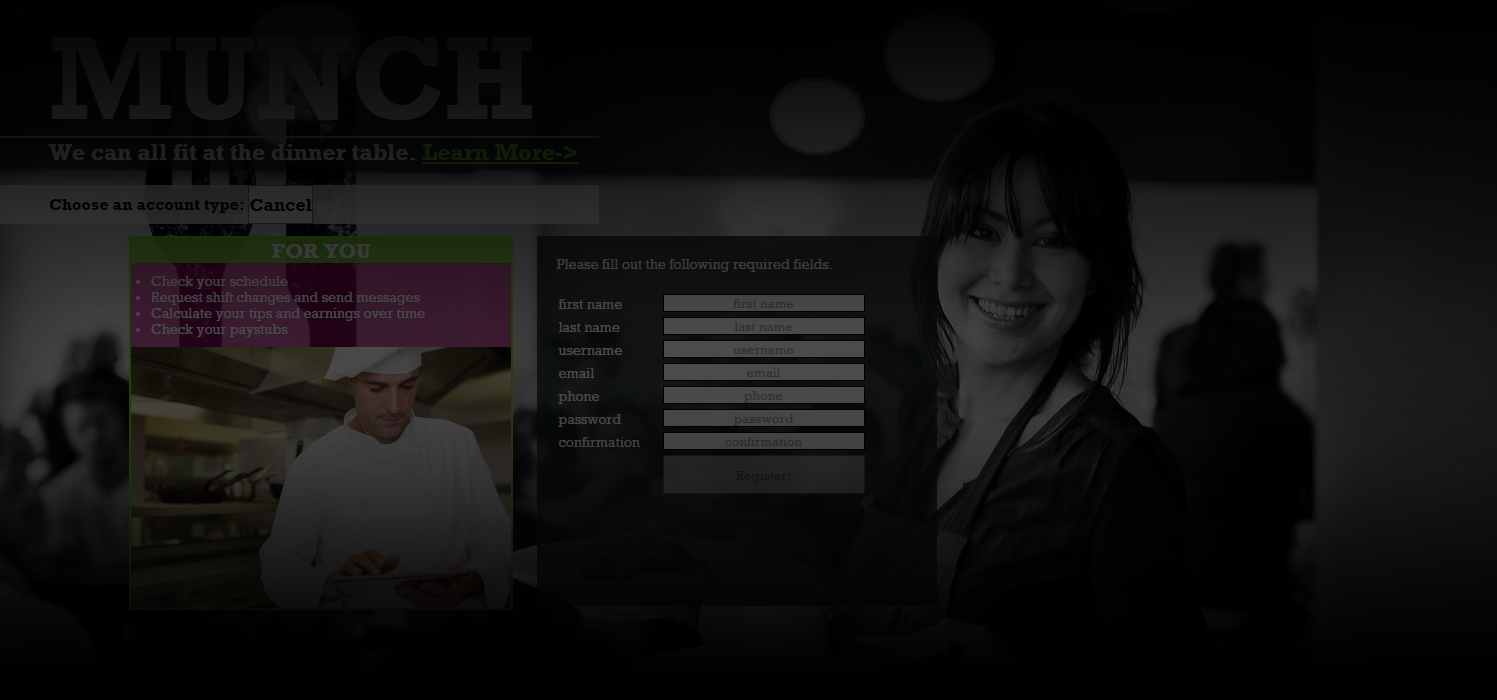
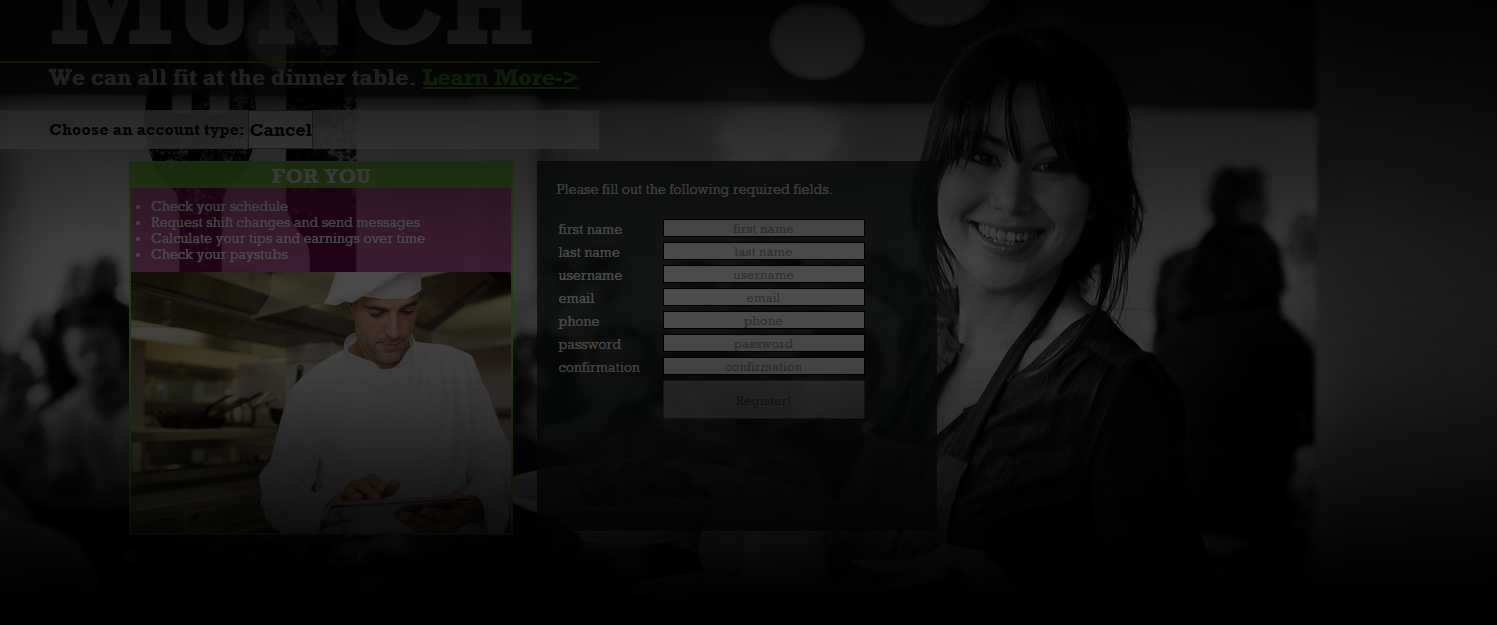
8:52pm 3/11: All functional

diff --git a/css/portfolio_home_style.css b/css/portfolio_home_style.css
@@ -11,6 +11,9 @@ body{
 	background-repeat: no-repeat;
 	background-attachment: fixed;
 }
+a{
+	color: rgb(38,188,244);
+}
 .nestled,#site_links a{
 	display: inline-block;
 	vertical-align: top;
@@ -114,7 +117,7 @@ body{
 		to {left: 0em;}
 	}
 
-.align_center,#rails_frame h3{
+.align_center{
 	text-align: center;
 }
 
@@ -137,9 +140,6 @@ body{
 	}
 	
 /*PROFILE STYLING*/
-	#profile a,#lamp_title_wrapper a,#mean_title_wrapper a,#rails_frame a{
-		color: rgb(38,188,244);
-	}
 	#profile img{
 		float: left;
 		margin: 0em 1em 1em 0em;
@@ -166,12 +166,6 @@ body{
 		margin-left: 8%;
 		margin-bottom: 1em;
 	}
-		#skills h2{
-			font-size: 3em;
-		}
-		#skills li{
-			font-size: 2em;
-		}
 		#skills ul{
 			margin-left: 2em;
 		}
@@ -186,94 +180,66 @@ body{
 		margin: 3% auto;
 	}
 
+/*PROJECT STYLING*/
+	.wrapper{
+		padding: 2em;
+		background-size: 100% auto;
+		/*background-repeat: no-repeat;*/
+	}
+	.title_link{
+		text-decoration: none;
+		color: white;
+	}
+	.lamp h2,.mean h2,.rails h2{
+		font-size: 20vw;
+	}
+	.lamp h3,.mean h3,#rails_frame h3,.centered p:first-child,#skills h2{
+		font-size: 3em;
+	}
+	.lamp h4,.mean h4,.rails h4,#rails_demo p,#skills li{
+		font-size: 2em;
+	}
+	.centered{
+		width: 50%;
+		margin: 4em auto;
+	}
+	.centered p{
+		font-size: 1.5em;
+	}
+	.screenshots img{
+		width: 70%;
+		margin: 0em auto 2em;
+	}
+
 /*LAMP STYLING*/
+	#lamp_title_wrapper{
+		background-image: url('../images/sku_0.png');
+	}
+	#lamp_title_wrapper,#lamp_title_wrapper .title_link{
+		color: black;
+	}
 	#lamp_frame{
 		background-color: rgb(2,10,36);
 	}
-	#lamp_title_wrapper{
-		padding: 2em;
-		background-image: url('../images/sku_0.png');
-		background-size: 100% auto;
-		/*background-repeat: no-repeat;*/
-		color: black;
-	}
-		.lamp h2{
-			font-size: 20vw;
-		}
-		.lamp h3{
-			font-size: 3em;
-		}
-		.lamp h4{
-			font-size: 2em;
-		}
-		.lamp .centered p:not(:first-child){
-			font-size: 1.5em;
-		}
 
 /*MEAN STYLING*/
+	#mean_title_wrapper{
+		background-image: url('../images/munch_0.png');
+	}
 	#mean_frame{
 		background-color: rgb(89,166,61);
-	}
-	#mean_title_wrapper{
-		padding: 2em;
-		background-image: url('../images/munch_0.png');
-		background-size: 100% auto;
-		/*background-repeat: no-repeat;*/
 	}
 	.mean *{
 		font-family: "Rockwell",serif;
 	}
-		.mean h2{
-			font-size: 20vw;
-		}
-		.mean h3{
-			font-size: 3em;
-		}
-		.mean h4{
-			font-size: 2em;
-		}
-		.mean .centered p:not(:first-child){
-			font-size: 1.5em;
-		}
 
 /*RAILS STYLING*/
+	#rails_title_wrapper{
+		background-image: url('../images/make_0.png');
+	}
 	#rails_frame{
 		background-color: rgb(233,87,63);
 	}
-		#rails_frame h2{
-			font-size: 25vw;
-		}
-		#rails_subtitle{
-			width: 50%;
-			margin: 0em auto 4em;
-		}
-			#rails_subtitle img{
-				width: 20%;
-				margin-right: 2em;
-			}
-			#rails_frame h4{
-				font-size: 2vw;
-			}
-		#rails_frame h3{
-			font-size: 5em;
-		}
-		#rails_demo{
-			padding-top: 4em;
-		}
-			#rails_demo img{
-				margin-bottom: 1em;
-			}
-			#rails_demo p{
-				font-size: 2em;
-			}
-		.centered{
-			width: 50%;
-			margin: 4em auto;
-		}
-		.centered p{
-			font-size: 3em;
-		}
-		#rails_screens img{
-			width: 70%;
-			margin: 0em auto 2em;
+		#rails_demo img{
+			margin-bottom: 1em;
 		}

diff --git a/partials/rails.html b/partials/rails.html
@@ -1,15 +1,23 @@
-<div id="rails_frame" class="larger_frame">
-	<h2 class="align_center">MAKE</h2>
-	<div id="rails_subtitle">
-		<img src="images/gem_icon.png" class="nestled">
-		<h4 class="nestled">
-			Ruby Gem<br>
-			& Demonstration Site<br>
-			Used: SQLite, WEBrick, Ruby on Rails<br>
-			Colleague: <a href="https://github.com/sarapple">Sara Wong</a>
-		</h4>
+<div id="rails_title_wrapper" class="rails align_center wrapper">
+	<h2><a class="title_link" href="https://make-gem.herokuapp.com/" target="_blank">MAKE</a></h2>
+	<h4>Ruby Gem & Demonstration Site<br>
+		Colleague: <a href="https://github.com/sarapple" target="_blank">Sara Wong</a><br>
+		Used: SQLite, WEBrick, Ruby on Rails
+	</h4>
+</div>
+<div id="rails_frame" class="larger_frame rails">
+	<div class="centered">
+		<p>MAKE produces tables and forms in Ruby on Rails with just a line of code in your controller, and one in your view.</p>
 	</div>
-	<h3>VISIT THE SITE: <a href="https://make-gem.herokuapp.com/">Demonstration Site</a></h3>
+	<div class="centered align_center">
+		<h3><a href="https://make-gem.herokuapp.com/" target="_blank">TRY THE GEM HERE.</a></h3>
+	</div>
+	<div class="centered">
+		<p>Personal contributions:</p>
+		<p>Splash page and home (extensive jQuery)</p>
+		<p>Clickable tree of gem methods (extensive jQuery and Rails)</p>
+		<p>Automated table creation based on database content (Rails, SQLite)</p>
+	</div>
 	<div id="rails_demo" class="align_center">
 		<h3>RUNDOWN</h3>
 		<p>Why type all this -></p>
@@ -20,13 +28,7 @@
 		<p>When all you need is this? -></p>
 		<img src="images/make_3.png">
 	</div>
-	<div class="centered">
-		
-	</div>
-	<div class="centered">
-		<p>MAKE produces tables and forms in Ruby on Rails with just a line of code in your controller, and one in your view.</p>
-	</div>
-	<div id="rails_screens" class="align_center">
+	<div class="screenshots align_center">
 		<h3>SCREENSHOTS</h3>
 		<img src="images/make_4.png" class="nestled">
 		<img src="images/make_5.png" class="nestled">

diff --git a/partials/mean.html b/partials/mean.html
@@ -1,14 +1,19 @@
-<div id="mean_title_wrapper" class="mean align_center">
-	<h2>MUNCH</h2>
+<div id="mean_title_wrapper" class="mean align_center wrapper">
+	<h2><a class="title_link" href="http://munch.ulysseslin.com/" target="_blank">MUNCH</a></h2>
 	<h4>Restaurant Management App<br>
-		Colleagues: <a href="">Miles Trotter</a>
-		<a href="https://github.com/Chrisjag92">Chris Jaglois</a>
+		Colleagues: <a href="https://github.com/milestrotter" target="_blank">Miles Trotter</a>
+		<a href="https://github.com/Chrisjag92" target="_blank">Chris Jaglois</a>
 	</h4>
 	<h4>Used: Javascript, MongoDB + Mongoose, Express.js + Socket.io, Angular.js, Node.js, Responsive Web Design</h4>
 </div>
 <div id="mean_frame" class="larger_frame mean">
 	<div class="centered">
 		<p>MUNCH unifies all aspects of restaurant management.<br>Edit the menu, message workers, check tips, change pay, pick up shifts, and more.</p>
+	</div>
+	<div class="centered align_center">
+		<h3><a href="http://munch.ulysseslin.com/" target="_blank">TRY THE APP HERE.</a></h3>
+		<p>Admin account: "ders"</p>
+		<p>Admin password: "1"</p>
 	</div>
 	<div class="centered">
 		<p>Personal contributions:</p>
@@ -19,12 +24,12 @@
 		<p>Server-side controller and database management, & account type management (MongoDB + Mongoose)</p>
 		<p>*NOTE: Photos used are not owned by me. This app is not on the market.</p>
 	</div>
-	<div id="rails_screens" class="align_center">
+	<div class="screenshots align_center">
 		<h3>SCREENSHOTS</h3>
-		<img src="images/munch_1.png" class="nestled">
-		<img src="images/munch_2.png" class="nestled">
+		<img src="images/munch_1.jpg" class="nestled">
+		<img src="images/munch_2.jpg" class="nestled">
 		<img src="images/munch_3.png" class="nestled">
 		<img src="images/munch_4.png" class="nestled">
-		<img src="images/munch_5.png" class="nestled">
+		<img src="images/munch_5.jpg" class="nestled">
 	</div>
 </div>

diff --git a/partials/lamp.html b/partials/lamp.html
@@ -1,14 +1,19 @@
-<div id="lamp_title_wrapper" class="lamp align_center">
-	<h2>SKU</h2>
+<div id="lamp_title_wrapper" class="lamp align_center wrapper">
+	<h2><a class="title_link" href="http://sku.ulysseslin.com/" target="_blank">SKU</a></h2>
 	<h4>Clothing Ecommerce App<br>
-		Colleagues: <a href="https://github.com/Kendallmdalton">Kendall Dalton</a>
-		<a href="https://github.com/sarapple">Sara Wong</a><br>
+		Colleagues: <a href="https://github.com/Kendallmdalton" target="_blank">Kendall Dalton</a>
+		<a href="https://github.com/sarapple" target="_blank">Sara Wong</a><br>
 		Used: PHP, Ajax, MySQL, jQuery, Javascript
 	</h4>
 </div>
 <div id="lamp_frame" class="larger_frame lamp">
 	<div class="centered">
 		<p>Find items by category and purchase them.<br>Track orders, add items, & edit items.</p>
+	</div>
+	<div class="centered align_center">
+		<h3><a href="http://sku.ulysseslin.com/" target="_blank">TRY THE APP HERE.</a></h3>
+		<p>Admin account: "admin@admin.com"</p>
+		<p>Admin password: "admin"</p>
 	</div>
 	<div class="centered">
 		<p>Personal contributions:</p>
@@ -20,7 +25,7 @@
 		<p>Search capabilities (extensive jQuery)</p>
 		<p>*NOTE: Photos used are not owned by me. This app is not on the market.</p>
 	</div>
-	<div id="rails_screens" class="align_center">
+	<div class="screenshots align_center">
 		<h3>SCREENSHOTS</h3>
 		<img src="images/sku_1.png" class="nestled">
 		<img src="images/sku_2.png" class="nestled">

diff --git a/partials/profile.html b/partials/profile.html
@@ -1,5 +1,5 @@
 <div id="profile" class="smaller_frame">
-	<img src="images/profile_picture.png">
+	<img src="images/profile_picture.jpg">
 	<h3>Resourcefulness. Creativity. Perseverance.</h3>
 	<p>My name is Ulysses Lin and I am a junior developer and recent graduate of <a href="http://www.codingdojo.com/">Coding Dojo</a>, a prestigious full stack coding bootcamp in Bellevue, WA. I currently looking for a back-end developer position, though I am open to front-end work as well.</p>
 	<p>I earned top marks at Coding Dojo, <span class="pink">one of only two to pass all exams on the first try in a cohort of 15.</span> At Coding Dojo, I received holistic, intensive training in MVC frameworks, database use, front-end design, back-end OOP, and more for 60-70 hours a week for 14 weeks.</p>

diff --git a/index.html b/index.html
@@ -14,9 +14,9 @@
 		</div>
 		<div id="navbar_projects" class="nestled">
 			<h4>Projects</h4>
-			<a href="#/lamp"><h4>[LAMP stack]</h4></a>
-			<a href="#/mean"><h4>[MEAN stack]</h4></a>
-			<a href="#/rails"><h4>[Ruby on Rails]</h4></a>
+			<a href="#/lamp"><h4>PHP [LAMP]</h4></a>
+			<a href="#/mean"><h4>Javascript [MEAN]</h4></a>
+			<a href="#/rails"><h4>Ruby on Rails</h4></a>
 		</div>
 		<div id="navbar_links" class="nestled">
 			<h4>Links</h4>
